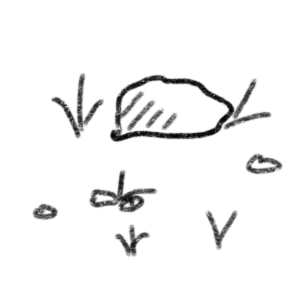
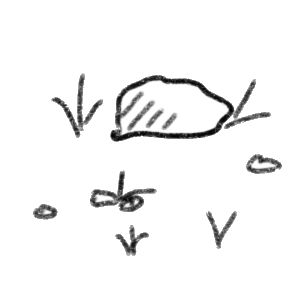
added transparency

diff --git a/app/src/main/java/ch/zhaw/team5/model/gameobj/Tower.java b/app/src/main/java/ch/zhaw/team5/model/gameobj/Tower.java
@@ -16,38 +16,37 @@ public class Tower extends StaticGameObject {
 
     private List<Arrow> arrows;
 
-
     public Tower(Point2D position, Image sprite) {
         super(position, sprite);
         arrows = new ArrayList<>();
         height = 100;
         width = 100;
-        //TODO load texture for tower
+        // TODO load texture for tower
     }
 
     @Override
     public void render(Canvas canvas) {
-        //TODO maybe remove this and move it to an update function
+        // TODO maybe remove this and move it to an update function
         arrows.removeIf(arrow -> arrow.hasHitTarget());
 
-        canvas.getGraphicsContext2D().drawImage(sprite,position.getX(),position.getY(),height,width);
+        canvas.getGraphicsContext2D().drawImage(sprite, position.getX() - width / 2, position.getY() - height / 2,
+                width, height);
 
-        //TODO call render on each arrow 
-
+        // TODO call render on each arrow
 
     }
 
-    private boolean outOfRange(Enemy enemy){
+    private boolean outOfRange(Enemy enemy) {
         return position.distance(enemy.getPosition()) > range;
     }
 
-    public Enemy shootAtEnemies(List<Enemy> enemies){
-        var possibleTargets= new ArrayList<>(enemies);
+    public Enemy shootAtEnemies(List<Enemy> enemies) {
+        var possibleTargets = new ArrayList<>(enemies);
         possibleTargets.removeIf(enemy -> outOfRange(enemy));
-        
+
         Random rand = new Random();
         var target = possibleTargets.get(rand.nextInt(possibleTargets.size()));
-        
+
         arrows.add(new Arrow(target, this.position));
 
         return target;

diff --git a/app/src/main/java/ch/zhaw/team5/model/gameobj/definitions/PathFollowingGameObject.java b/app/src/main/java/ch/zhaw/team5/model/gameobj/definitions/PathFollowingGameObject.java
@@ -20,9 +20,9 @@ public abstract class PathFollowingGameObject extends MovingGameObject {
         var randomUtil = RandomUtil.getInstance();
         this.velocity = new Point2D(0, 0);
         this.accelleration = new Point2D(0, 0);
-        this.maxSpeed = randomUtil.getRandomInRangeDouble(1, 2);
-        this.maxForce = 0.1;
-        this.radius = 5;
+        this.maxSpeed = randomUtil.getRandomInRangeDouble(.5, 1.5);
+        this.maxForce = .3;
+        this.radius = 25;
     }
 
     public Point2D followPath(Path path) {
@@ -64,17 +64,16 @@ public abstract class PathFollowingGameObject extends MovingGameObject {
 
     private Point2D getCollisionPoint2d(List<Enemy> enemies) {
         for (Enemy enemy : enemies) {
-            if (enemy.getPosition().distance(position) <= radius*2) {
+            if (enemy.getPosition().distance(position) <= radius) {
                 var vec = position.subtract(enemy.position);
-                System.out.println("reeee");
-                return vec.multiply(0.01);
+                return vec.normalize().multiply(.001);
             }
         }
         return new Point2D(0, 0);
     }
 
     public void update(List<Enemy> enemies) {
-        accelleration = accelleration.add(getCollisionPoint2d(enemies));
+        velocity = velocity.add(getCollisionPoint2d(enemies));
         velocity = velocity.add(accelleration);
         velocity = limit(velocity, maxSpeed);
         position = position.add(velocity);

diff --git a/app/src/main/java/ch/zhaw/team5/model/Game.java b/app/src/main/java/ch/zhaw/team5/model/Game.java
@@ -27,7 +27,7 @@ public class Game implements Renderable {
     private PhaseCurrent phaseCurrent;
     private GameState gameState;
     private Path path;
-    private int wantedEnemies = 5;
+    private int wantedEnemies = 10;
 
     public Game(Player player, GameState gameState, Canvas canvas) {
         this.player = player;
@@ -42,12 +42,12 @@ public class Game implements Renderable {
 
     public void initTowers(double width, double height) {
         var distanceW = width / 6;
-        var distanceH = height / 8;
+        var distanceH = height / 4;
         var deltaW = distanceW;
         for (int i = 0; i < 6; i++) {
             towerPositions.add(new TowerPosition(new Point2D(distanceW, distanceH), i + 1));
             i++;
-            towerPositions.add(new TowerPosition(new Point2D(distanceW, height - 2 * distanceH), i + 1));
+            towerPositions.add(new TowerPosition(new Point2D(distanceW,  3 * distanceH), i + 1));
             distanceW += deltaW * 1.5;
         }
     }
@@ -56,7 +56,7 @@ public class Game implements Renderable {
         int radius = path.getRadius();
         int y = (int) path.getStart().getY();
         var startY = RandomUtil.getInstance().getRandomInRange(y - radius, y + radius);
-        var startX = RandomUtil.getInstance().getRandomInRange(-200, 5);
+        var startX = RandomUtil.getInstance().getRandomInRange(-0, 5);
         enemies.add(new Enemy(new Point2D(startX, startY), path));
     }
 

diff --git a/app/src/main/java/ch/zhaw/team5/model/gameobj/Enemy.java b/app/src/main/java/ch/zhaw/team5/model/gameobj/Enemy.java
@@ -10,7 +10,8 @@ import javafx.scene.canvas.Canvas;
 
 public class Enemy extends PathFollowingGameObject {
 
-    private final static List<String> enemyImageNames = List.of("Enemy1", "Enemy2", "Enemy3", "Enemy4", "Enemy5");
+    private final static List<String> enemyImageNames = List.of("Enemy1_small", "Enemy2_small", "Enemy3_small",
+            "Enemy4_small", "Enemy5_small");
     private final Path path;
 
     public Enemy(Point2D position, Path path) {
@@ -40,8 +41,9 @@ public class Enemy extends PathFollowingGameObject {
 
     @Override
     public void render(Canvas canvas) {
-         canvas.getGraphicsContext2D().drawImage(sprite, position.getX() - width / 2,
-         position.getY() - height / 2,width, height);
+        canvas.getGraphicsContext2D().drawImage(sprite, position.getX() - width / 2, position.getY() - height / 2,
+                width, height);
+
     }
 
 }

diff --git a/app/src/main/java/ch/zhaw/team5/model/gameobj/TowerPosition.java b/app/src/main/java/ch/zhaw/team5/model/gameobj/TowerPosition.java
@@ -34,9 +34,10 @@ public class TowerPosition extends StaticGameObject {
         if (hasTower()) {
             tower.render(canvas);
         } else {
-            g2d.drawImage(sprite, position.getX(), position.getY(), height, width);
+            g2d.drawImage(sprite,position.getX() - width / 2, position.getY() - height / 2,
+            width, height);
             g2d.setStroke(Color.GRAY);
-            g2d.strokeText("" + positionNumber, position.getX(), position.getY() + height / 2);
+            g2d.strokeText("" + positionNumber, position.getX(), position.getY());
         }
     }
 
